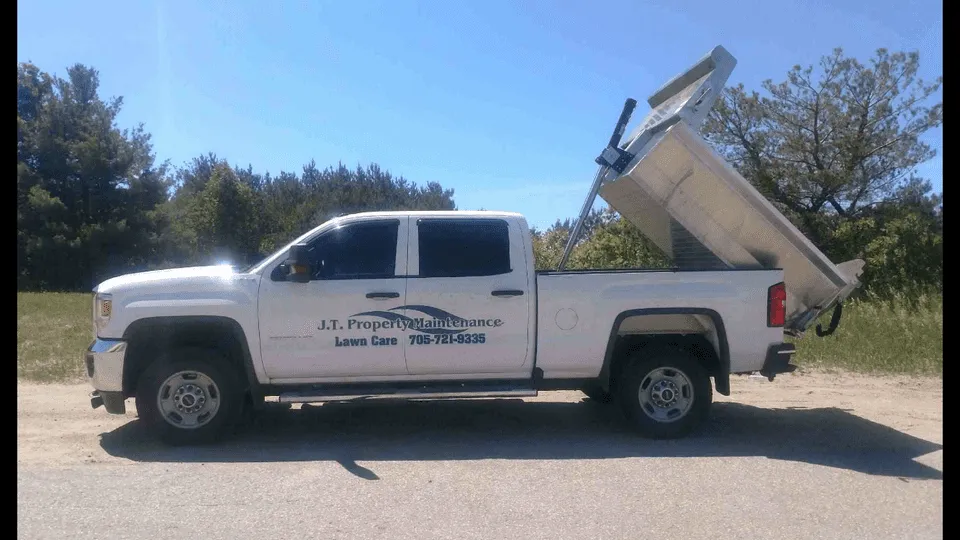
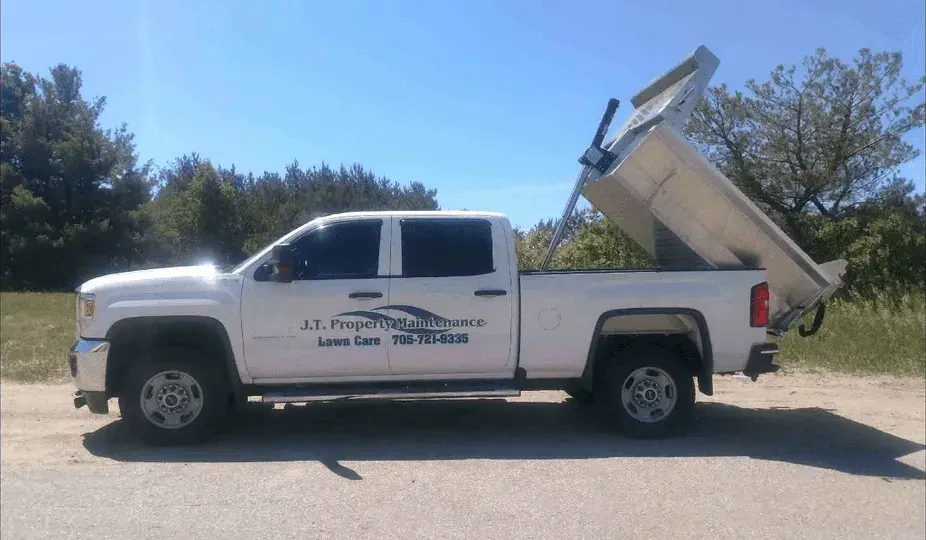
Add Instagram reel slider and swap low-res photos for Instagram ones
- Home page: new "See the crew at work" section with J.T.'s 8 newest reels.
  Self-hosted covers; Instagram's player loads only when a reel is tapped.
  Lives in components/Reels.tsx (J.T. only, not in site-template).
- Replace the 960x400 lawn strips, the 290px steps photo and the truck's
  black bars with full-size photos from J.T.'s Instagram (stickers cropped off).
- Our Work: "Residential Lawn Care" card becomes "Backyard Clean-Up".
- Credits list the source post for each new image.

diff --git a/components/Reels.tsx b/components/Reels.tsx
@@ -1,0 +1,148 @@
+"use client";
+
+// J.T. only (not in site-template). The snap/arrow/status logic mirrors ServiceCarousel in sections.tsx;
+// it is copied rather than shared so `git merge template/main` never conflicts on this feature.
+import Image from "next/image";
+import { useEffect, useRef, useState } from "react";
+import { instagram, site } from "@/lib/site";
+import { Icon } from "./Icon";
+import { Eyebrow, Reveal } from "./ui";
+
+type Reel = (typeof instagram.reels)[number];
+
+export function Reels() {
+  return (
+    <section className="section-y bg-cream">
+      <div className="container-x">
+        <Reveal className="grid gap-6 lg:grid-cols-2 lg:items-end lg:gap-16">
+          <div>
+            <Eyebrow>Instagram</Eyebrow>
+            <h2>See the crew at work</h2>
+          </div>
+          <p className="text-[16px] lg:pb-2">
+            Short videos from real jobs around {site.city}. Follow{" "}
+            <a href={instagram.url} className="font-medium text-primary underline-offset-4 hover:underline" target="_blank" rel="noopener">
+              @{instagram.handle}
+            </a>{" "}
+            for more.
+          </p>
+        </Reveal>
+        <div className="mt-12">
+          <ReelSlider />
+        </div>
+      </div>
+    </section>
+  );
+}
+
+function ReelSlider() {
+  const track = useRef<HTMLDivElement>(null);
+  const pending = useRef<number | null>(null); // scrollLeft a click already asked for, so rapid clicks build on it
+  const settled = useRef(0);
+  const [status, setStatus] = useState(""); // empty on load; only announced after the user scrolls
+  const reels = instagram.reels;
+
+  const snaps = (el: HTMLDivElement) => {
+    const kids = [...el.children] as HTMLElement[];
+    const max = el.scrollWidth - el.clientWidth;
+    return kids.map((k) => Math.min(k.offsetLeft - kids[0].offsetLeft, max));
+  };
+  const nearest = (list: number[], x: number) => list.reduce((b, p, n) => (Math.abs(p - x) < Math.abs(list[b] - x) ? n : b), 0);
+
+  const go = (dir: number) => {
+    const el = track.current;
+    if (!el) return;
+    const list = snaps(el);
+    const n = Math.max(0, Math.min(list.length - 1, nearest(list, pending.current ?? el.scrollLeft) + dir));
+    pending.current = list[n];
+    const smooth = matchMedia("(prefers-reduced-motion: no-preference)").matches;
+    el.scrollTo({ left: list[n], behavior: smooth ? "smooth" : "instant" });
+  };
+
+  useEffect(() => {
+    const el = track.current;
+    if (!el) return;
+    const settle = () => {
+      pending.current = null;
+      const n = nearest(snaps(el), el.scrollLeft);
+      if (n === settled.current) return;
+      settled.current = n;
+      setStatus(`Reel ${n + 1} of ${el.children.length}`);
+    };
+    if ("onscrollend" in window) {
+      // Lenis stops native scrollend at window in the capture phase; a capture listener on window still hears it.
+      const onEnd = (e: Event) => e.target === el && settle();
+      window.addEventListener("scrollend", onEnd, { capture: true });
+      return () => window.removeEventListener("scrollend", onEnd, { capture: true });
+    }
+    let t: ReturnType<typeof setTimeout>;
+    const onScroll = () => {
+      clearTimeout(t);
+      t = setTimeout(settle, 150);
+    };
+    el.addEventListener("scroll", onScroll);
+    return () => {
+      clearTimeout(t);
+      el.removeEventListener("scroll", onScroll);
+    };
+  }, []);
+
+  return (
+    <div aria-roledescription="carousel" aria-label="Instagram reels" role="region">
+      <div ref={track} className="-mx-5 flex touch-manipulation snap-x snap-mandatory scroll-pl-5 gap-[30px] overflow-x-auto overscroll-x-contain overscroll-y-auto! px-5 pb-2 [scrollbar-width:none] sm:mx-0 sm:scroll-pl-0 sm:px-0 [&::-webkit-scrollbar]:hidden" data-lenis-prevent-horizontal>
+        {reels.map((r, n) => (
+          <article key={r.id} role="group" aria-roledescription="slide" aria-label={`${n + 1} of ${reels.length}`} className="w-[78%] shrink-0 snap-start sm:w-[calc(50%-15px)] md:w-[calc(33.333%-20px)] xl:w-[calc(25%-22.5px)]">
+            <ReelCard reel={r} />
+          </article>
+        ))}
+      </div>
+      <p role="status" aria-live="polite" className="sr-only">{status}</p>
+      <div className="mt-10 flex justify-center gap-3">
+        {([-1, 1] as const).map((d) => (
+          <button
+            key={d}
+            type="button"
+            onClick={() => go(d)}
+            className="grid size-[50px] touch-manipulation place-items-center rounded-[10px] bg-white text-dark transition-colors hover:bg-lime"
+            aria-label={d < 0 ? "Previous reels" : "Next reels"}
+          >
+            <Icon name={d < 0 ? "arrowLeft" : "arrowRight"} />
+          </button>
+        ))}
+      </div>
+    </div>
+  );
+}
+
+// Facade: a self-hosted cover until tapped, so Instagram's player, scripts and cookies load only for people who ask.
+// The box is the player's height from the start (4:5 video + ~225px header/footer), so nothing jumps on tap.
+function ReelCard({ reel }: { reel: Reel }) {
+  const [playing, setPlaying] = useState(false);
+  return (
+    <div className="@container overflow-hidden rounded-[12px] bg-white">
+      <div className="relative h-[calc(125cqi+225px)]">
+        {playing ? (
+          <iframe
+            ref={(el) => el?.focus()}
+            src={`https://www.instagram.com/reel/${reel.id}/embed/`}
+            title={`Instagram reel: ${reel.title}`}
+            allow="autoplay; encrypted-media; fullscreen; picture-in-picture"
+            scrolling="no" // the embed page is taller than its visible card and would show a stray scrollbar
+            className="absolute inset-0 size-full border-0"
+          />
+        ) : (
+          <button type="button" onClick={() => setPlaying(true)} aria-label={`Play reel: ${reel.title} (loads Instagram)`} className="group absolute inset-0 block size-full overflow-hidden text-left outline-offset-[-4px] focus-visible:outline-2 focus-visible:outline-lime">
+            <Image src={`/images/reels/${reel.id}.webp`} alt="" fill sizes="(min-width:1280px) 300px, (min-width:768px) 33vw, (min-width:640px) 50vw, 78vw" className="object-cover transition-transform duration-700 group-hover:scale-105" />
+            <span className="absolute inset-0 bg-gradient-to-t from-dark/85 via-dark/10 to-transparent" />
+            <span className="absolute inset-0 grid place-items-center">
+              <span className="grid size-16 place-items-center rounded-full bg-lime text-dark shadow-lg transition-transform group-hover:scale-110">
+                <Icon name="play" className="size-7 translate-x-0.5 fill-current" />
+              </span>
+            </span>
+            <span className="absolute inset-x-0 bottom-0 p-5 text-[17px] leading-snug font-medium text-white lg:text-[19px]">{reel.title}</span>
+          </button>
+        )}
+      </div>
+    </div>
+  );
+}

diff --git a/lib/site.ts b/lib/site.ts
@@ -35,6 +35,22 @@ export const site = {
   ],
 } as const;
 
+// J.T.'s 8 newest reels. Covers are self-hosted in public/images/reels/<id>.webp; Instagram's player loads only on tap.
+export const instagram = {
+  handle: "jtpropertymaintenance_",
+  url: "https://www.instagram.com/jtpropertymaintenance_/",
+  reels: [
+    { id: "DgJWVXYAYrT", title: "Undercoating all the trucks & trailers" },
+    { id: "DgDj56IhpiA", title: "Worst case gutter cleaning" },
+    { id: "DfifnP2ATao", title: "Snow pickets keeping us busy" },
+    { id: "De2IZlBTC9U", title: "Brand new trailer putting in the work" },
+    { id: "DeKQofzT1m4", title: "Gutter cleaning in Wasaga Beach" },
+    { id: "DdoTRcezWRe", title: "Undercoating tractors" },
+    { id: "DdMdfUEuVI_", title: "Stripes for days" },
+    { id: "DdCc5AoTPnj", title: "Labour Day shenanigans" },
+  ],
+} as const;
+
 // Set to null when the client has no award: every award block and award sentence on the site then disappears.
 export type Award = { name: string; category: string; years: string; images: { src: string; alt: string }[] };
 export const award: Award | null = {
@@ -68,7 +84,7 @@ export const pageMeta = {
 };
 
 export const heroSlides = [
-  { image: "/images/lawn-residential.webp", label: "Lawn & Garden Care", alt: `Freshly striped lawn in front of a ${city} home` },
+  { image: "/images/front-yard-after.webp", label: "Lawn & Garden Care", alt: `${city} front yard with armour stone, grasses and black mulch after a ${name} makeover` },
   { image: "/images/plow-trucks-commercial.webp", label: "Snow Plowing & Removal", alt: `${name} plow trucks in a cleared commercial lot at night` },
 ];
 
@@ -115,13 +131,13 @@ export const serviceCards: ServiceCard[] = [
   {
     title: "Lawn Maintenance & Grass Cutting",
     text: "Regular grass cutting and lawn care for homes and businesses, with every clipping picked up before we leave.",
-    image: "/images/lawn-residential.webp",
+    image: "/images/lawn-stripes.webp",
     href: "/services/lawn-care-barrie",
   },
   {
     title: "Spring & Fall Clean-Ups",
     text: "Leaves, sticks, debris and yard waste cleared away each season, including large-quantity leaf removal.",
-    image: "/images/lawn-crew.webp",
+    image: "/images/backyard-after.webp",
     href: "/services/spring-fall-cleanup-barrie",
   },
 ];
@@ -219,8 +235,8 @@ export const serviceDetails: ServiceDetail[] = [
     metaTitle: `Lawn Care ${city} | Grass Cutting & Lawn Maintenance | J.T. Property Maintenance`,
     metaDescription:
       `Grass cutting and lawn maintenance in ${city} for homes and businesses. Fertilizing, aeration, overseeding and thatching.${awardLine} Free estimates.`,
-    image: "/images/lawn-residential.webp",
-    gallery: ["/images/lawn-commercial.webp", "/images/jt-truck.webp"],
+    image: "/images/backyard-after-2.webp",
+    gallery: ["/images/lawn-stripes.webp", "/images/jt-truck.webp"],
     intro: [
       "You have a busy schedule, and yard work is the last thing you want to spend your time off on. After a hectic week, let our team take care of the time-consuming lawn chores and keep your yard clean and orderly every visit.",
       `We cut grass for residential and commercial properties and pick up all clippings, leaves and other yard waste, so your yard and driveway are left in pristine condition.${award ? ` ${name} won the ${awardYears} ${award.name} in the ${award.category} category.` : ""}`,
@@ -246,8 +262,8 @@ export const serviceDetails: ServiceDetail[] = [
     metaTitle: `Spring & Fall Clean-Up ${city} | Leaf Removal | J.T. Property Maintenance`,
     metaDescription:
       `Spring and fall yard clean-ups in ${city}: large-quantity leaf removal, debris removal, eavestrough cleaning and yard waste pickup. One-time or seasonal contracts. Free estimates.`,
-    image: "/images/lawn-crew.webp",
-    gallery: ["/images/stone-walkway.webp", "/images/steps-after.webp"],
+    image: "/images/backyard-after.webp",
+    gallery: ["/images/stone-walkway.webp", "/images/patio-after.webp"],
     intro: [
       "We take care of the leaves, debris, sticks and other yard clutter that builds up every season. Whether your property needs a spring refresh or a fall clear-out before the snow arrives, our crew leaves it clean and ready.",
       "No job is too big or too small for our experienced staff, and we work on your schedule. Book a one-time clean-up or add it to a seasonal contract.",

diff --git a/app/page.tsx b/app/page.tsx
@@ -2,6 +2,7 @@ import Image from "next/image";
 import Link from "next/link";
 import { CheckBadge, Icon, type IconName } from "@/components/Icon";
 import { Marquee } from "@/components/blocks";
+import { Reels } from "@/components/Reels";
 import { Snow } from "@/components/Snow";
 import { Accordion, HeroSlider, ServiceCarousel } from "@/components/sections";
 import { Button, Eyebrow, Reveal } from "@/components/ui";
@@ -16,15 +17,16 @@ export default function Home() {
       <WhyChoose />
       <OurWork />
       <Process />
+      <Reels />
       <Marquee
         images={[
-          { src: "/images/lawn-residential.webp", alt: "Striped residential lawn" },
+          { src: "/images/backyard-after-2.webp", alt: "Backyard cut and cleared after a fall clean-up" },
           { src: "/images/plow-trucks-commercial.webp", alt: "Plow trucks after clearing a commercial lot" },
-          { src: "/images/lawn-commercial.webp", alt: "Commercial grounds after grass cutting" },
+          { src: "/images/lawn-stripes.webp", alt: "Fresh mowing stripes beside a commercial building" },
           { src: "/images/tractor-snowblower.webp", alt: "Tractor with snowblower attachment" },
           { src: "/images/stone-walkway.webp", alt: "Flagstone side walkway" },
           { src: "/images/jt-truck.webp", alt: `${site.name} lawn care truck` },
-          { src: "/images/lawn-crew.webp", alt: "Crew planting cedars on a large lawn" },
+          { src: "/images/front-yard-after.webp", alt: "Front yard garden with armour stone and black mulch" },
         ]}
       />
       <Faq />
@@ -44,7 +46,7 @@ function About() {
       <div className="container-x grid items-start gap-12 lg:grid-cols-[1fr_1fr] lg:gap-[68px]">
         <Reveal from="left">
           <div className="relative aspect-[618/606] overflow-hidden rounded-[12px]">
-            <Image src="/images/lawn-crew.webp" alt={`${site.name} crew planting cedars on a large lawn`} fill sizes="(min-width:1024px) 620px, 100vw" className="object-cover" />
+            <Image src="/images/backyard-after.webp" alt={`Backyard cut back and cleared by ${site.name}`} fill sizes="(min-width:1024px) 620px, 100vw" className="object-cover" />
           </div>
           <div className="mt-8 flex items-center gap-4">
             <CheckBadge className="size-7" />
@@ -150,9 +152,9 @@ function WhyChoose() {
 
 function OurWork() {
   const work = [
-    { src: "/images/lawn-commercial.webp", title: "Commercial Grounds", text: "Business property grounds cut, edged and cleaned up.", href: "/services/lawn-care-barrie" },
+    { src: "/images/lawn-stripes.webp", title: "Commercial Grounds", text: "Business property grounds cut, edged and cleaned up.", href: "/services/lawn-care-barrie" },
     { src: "/images/plow-trucks-commercial.webp", title: "Commercial Lot Plowing", text: "Our plow trucks after clearing a plaza parking lot.", href: "/services/snow-removal-barrie" },
-    { src: "/images/lawn-residential.webp", title: "Residential Lawn Care", text: "Clean stripes, trimmed edges and every clipping picked up.", href: "/services/lawn-care-barrie" },
+    { src: "/images/backyard-after.webp", title: "Backyard Clean-Up", text: "An overgrown backyard cut back and cleared before winter.", href: "/services/spring-fall-cleanup-barrie" },
   ];
   return (
     <section className="section-y bg-cream">

diff --git a/app/contact/page.tsx b/app/contact/page.tsx
@@ -13,7 +13,7 @@ export const metadata: Metadata = {
 export default function ContactPage() {
   return (
     <>
-      <PageHero title="Contact Us" image="/images/jt-truck.webp" />
+      <PageHero title="Contact Us" image="/images/patio-after.webp" />
       <section className="section-y">
         <div className="container-x grid items-start gap-12 lg:grid-cols-[0.8fr_1.2fr] lg:gap-[60px]">
           <Reveal from="left">

diff --git a/app/about/page.tsx b/app/about/page.tsx
@@ -19,7 +19,7 @@ const values: { icon: IconName; title: string; text: string }[] = [
 export default function AboutPage() {
   return (
     <>
-      <PageHero title="About Us" image="/images/lawn-commercial.webp" />
+      <PageHero title="About Us" image="/images/front-yard-after.webp" />
 
       <section className="section-y">
         <div className="container-x grid items-center gap-12 lg:grid-cols-2 lg:gap-[68px]">

diff --git a/app/services/page.tsx b/app/services/page.tsx
@@ -15,7 +15,7 @@ export const metadata: Metadata = {
 export default function ServicesPage() {
   return (
     <>
-      <PageHero title="Our Services" image="/images/lawn-crew.webp" />
+      <PageHero title="Our Services" image="/images/backyard-after.webp" />
 
       <section className="section-y">
         <div className="container-x grid items-center gap-12 lg:grid-cols-2 lg:gap-[68px]">

diff --git a/components/Icon.tsx b/components/Icon.tsx
@@ -18,6 +18,7 @@ const paths = {
   award: "M12 15a6 6 0 1 0 0-12 6 6 0 0 0 0 12Zm-3.5-1L7 22l5-3 5 3-1.5-8",
   clipboard:
     "M9 2h6a1 1 0 0 1 1 1v2H8V3a1 1 0 0 1 1-1Zm7 2h2a2 2 0 0 1 2 2v14a2 2 0 0 1-2 2H6a2 2 0 0 1-2-2V6a2 2 0 0 1 2-2h2m1 10 2 2 4-4",
+  play: "M7 4v16l13-8Z",
   building: "M3 21h18M5 21V7l7-4 7 4v14M9 9h1M14 9h1M9 13h1M14 13h1M9 17h6v4H9z",
 } as const;
 

diff --git a/public/images/CREDITS.md b/public/images/CREDITS.md
@@ -7,12 +7,21 @@ All photos are J.T. Property Maintenance's own, taken from their current Wix sit
 | jt-logo.png | 28ba5f_9bc7ce35c66b44898f2dc690ae040ff0~mv2.png |
 | tractor-snowblower.webp | 28ba5f_fcd7a981f772454e83f4541a5226b992~mv2.jpeg |
 | plow-trucks-commercial.webp | cadab9_ac212c8a7bee4690b43f5d0b78af8b9a~mv2.jpg |
-| lawn-residential.webp | ba2cd3_788f362e0ddf4baea3dc67cf619c2500~mv2.jpg |
-| lawn-commercial.webp | ba2cd3_4d4863401f8e44dcbe69f5631ac1a747~mv2.jpg |
-| lawn-crew.webp | ba2cd3_c4cf533c65774109bc776e2e53131ff6~mv2.jpg |
-| jt-truck.webp | ba2cd3_6be243e174f0437d964a020f661c4af2~mv2.png |
+| jt-truck.webp | ba2cd3_6be243e174f0437d964a020f661c4af2~mv2.png (black side bars trimmed) |
 | stone-walkway.webp | 770bab_9dbf435d33294679948c4ba4dc650c52~mv2.jpg |
-| steps-after.webp | ba2cd3_dc957f… |
 | award-2020.webp | 770bab_3095dfb8bb244b34ae7f8c6369263091~mv2.jpg |
 | award-2026.webp | ba2cd3_bcc9000bafe54015a4703c99d14f5095~mv2.jpg |
 | og.jpg, app/icon.png | Generated from the logo and plow-trucks photo |
+
+## From J.T.'s Instagram (@jtpropertymaintenance_)
+
+Downloaded at full size, "before/after" stickers cropped off, converted to WebP.
+
+| File | Instagram post |
+|---|---|
+| front-yard-after.webp | https://www.instagram.com/p/Dd96m7CFUIx/ (photo 4) |
+| backyard-after.webp | https://www.instagram.com/p/DfDEW5fj-tT/ (photo 6) |
+| backyard-after-2.webp | https://www.instagram.com/p/DfDEW5fj-tT/ (photo 5) |
+| patio-after.webp | https://www.instagram.com/p/Cw0yhzhPE7O/ (photo 2) |
+| lawn-stripes.webp | Frame at 0:31 of https://www.instagram.com/reel/DdMdfUEuVI_/ (720×1280) |
+| reels/<id>.webp | Cover image of each reel in the home-page slider (`instagram.reels` in lib/site.ts) |
